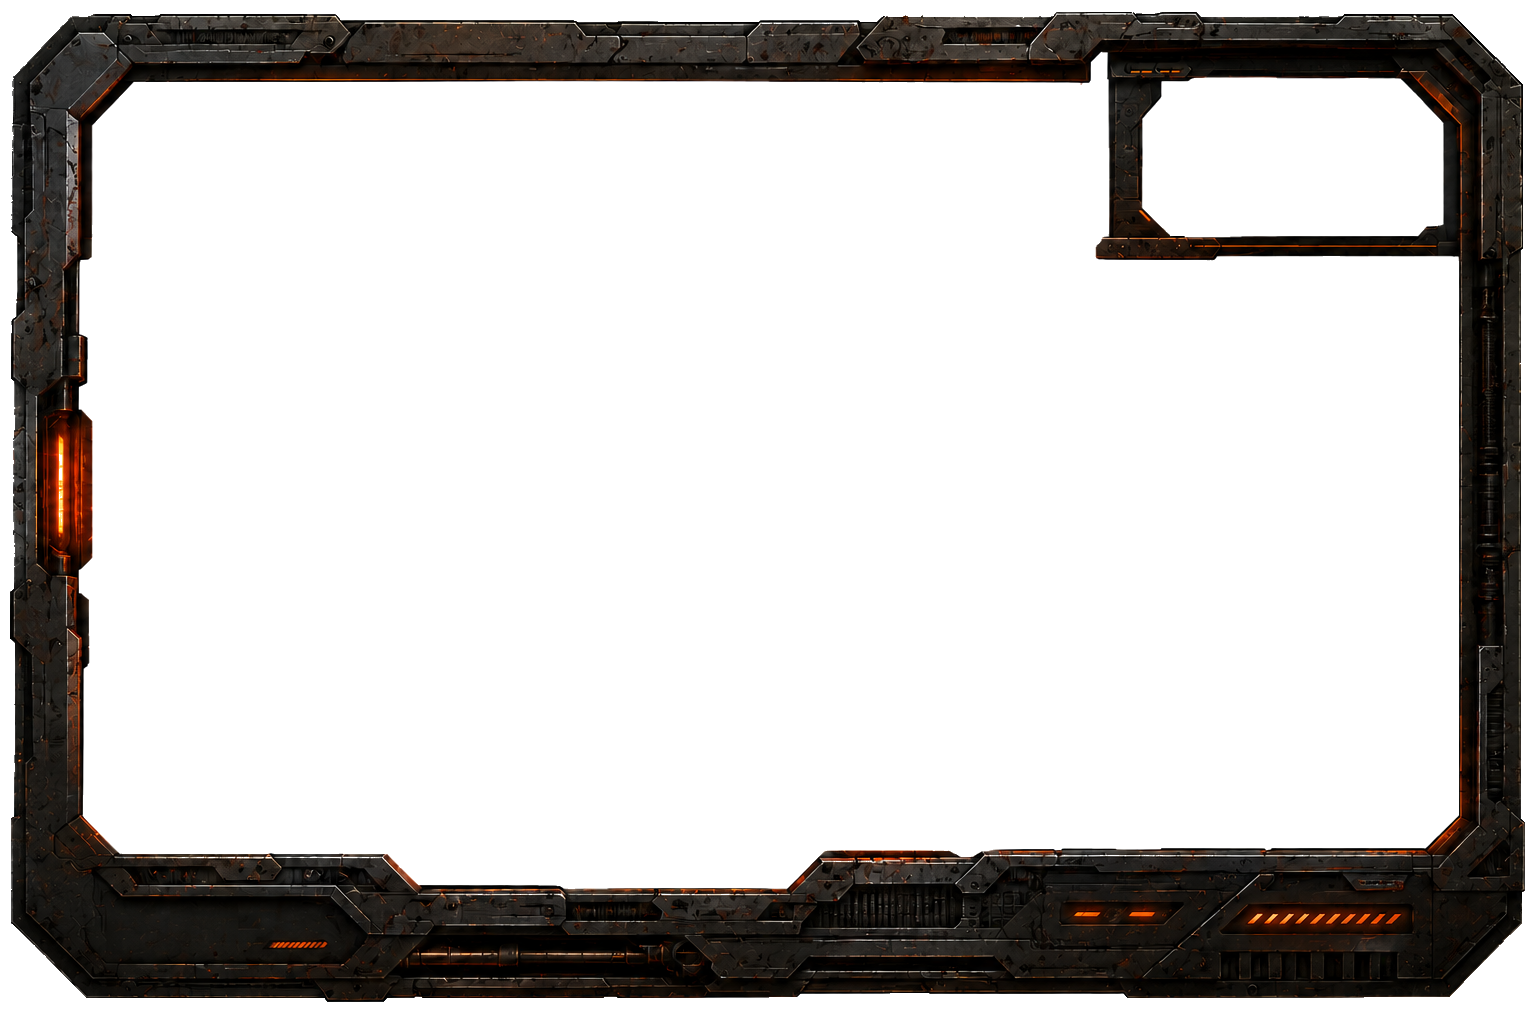
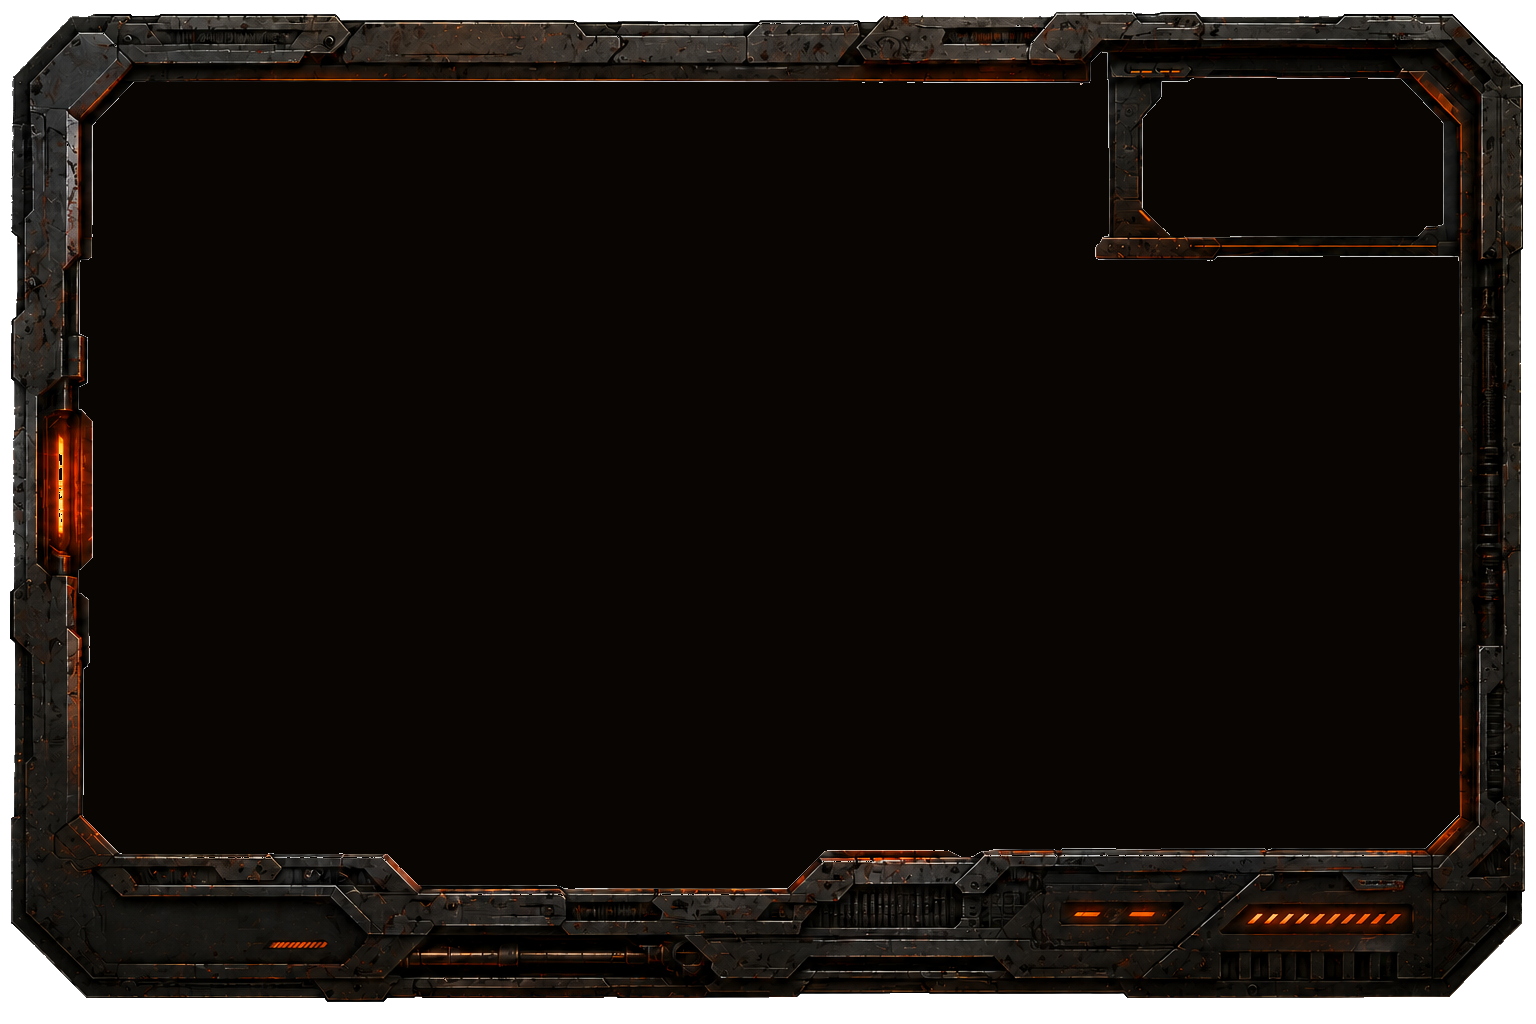
fix panel background and z-index layering

diff --git a/src/main/resources/static/poll/pollCP.html b/src/main/resources/static/poll/pollCP.html
@@ -372,7 +372,7 @@
         <div id="preview-wrap">
             <canvas id="pollCanvas"></canvas>
             <div id="chickenContainer"></div>
-            <div id="pollPanelRoot" style="position:absolute;top:0;left:0;width:1920px;height:1080px;pointer-events:none;overflow:hidden;"></div>
+            <div id="pollPanelRoot" style="position:absolute;top:0;left:0;width:1920px;height:1080px;pointer-events:none;overflow:hidden;z-index:2;"></div>
             <div id="dragGuides"></div>
         </div>
         <span class="preview-label">1920 × 1080</span>
@@ -388,7 +388,7 @@
 <script src="/utils/Backend.js"></script>
 <script src="poll.js?v=16"></script>
 <script src="pollChicken.js?v=16"></script>
-<script src="pollPanel.js?v=16"></script>
+<script src="pollPanel.js?v=20"></script>
 <script src="pollCP.js?v=16"></script>
 <script>
     function scalePreview(){

diff --git a/src/main/resources/static/poll/poll.html b/src/main/resources/static/poll/poll.html
@@ -11,7 +11,7 @@
 </head>
 <body>
     <div id="chickenContainer"></div>
-    <div id="pollPanelRoot" style="position:fixed;top:0;left:0;width:1920px;height:1080px;pointer-events:none;overflow:hidden;"></div>
+    <div id="pollPanelRoot" style="position:fixed;top:0;left:0;width:1920px;height:1080px;pointer-events:none;overflow:hidden;z-index:2;"></div>
     <script src="https://cdn.jsdelivr.net/npm/three@0.128.0/build/three.min.js"></script>
     <script src="https://cdn.jsdelivr.net/npm/three@0.128.0/examples/js/loaders/GLTFLoader.js"></script>
     <script src="/webjars/jquery/jquery.min.js"></script>
